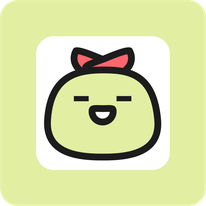
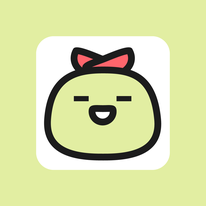
fixed margins on mobile

diff --git a/default.html b/default.html
@@ -50,7 +50,7 @@
     <div class="row mt-5" style="margin:auto">
       <!--Carousel logos-->
 
-      <div id="carousel-a" class="carousel slide carousel-sync col-xs-10 col-md-6 ms-3" data-ride="carousel">
+      <div id="carousel-a" class="carousel slide carousel-sync col-xs-10 col-md-6" data-ride="carousel">
         <!-- Images for carousel -->
         <div class="carousel-inner carousel-border">
           <div class="carousel-item active">
@@ -111,18 +111,18 @@
       </div>
       <!--Carousel Descs-->
 
-      <div id="carousel-b" class="carousel slide carousel-sync col-xs-10 col-md-5 carouselbg" data-ride="carousel">
+      <div id="carousel-b" class="carousel slide carousel-sync col-xs-10 col-md-5" data-ride="carousel">
         <!-- Images for carousel -->
-        <div class="carousel-inner slide carousel-sync">
+        <div class="carousel-inner slide carousel-sync carouselbg mx-auto">
           <div class="carousel-item active px-2 me-5">
-            <div class="mt-5 ">
+            <div class="mt-3 ">
               <h1>Beautybox UF</h1>
               <h3>Skönhet</h3>
               <p class="fs-5">Beauty Box UF säljer en beauty box med innehåll av sminkredskap & ett test av mineralsmink.</p>
             </div>
           </div>
           <div class="carousel-item">
-            <div class="mt-5">
+            <div class="mt-3">
               <h1>Biobags UF</h1>
               <h3>Tygväskor</h3>
               <p class="fs-5">Vi heter Romeo, Holger och Ludvig. Vi säljer kvalitativa, miljövänliga tygväskor som är designade med ett speciellt 
@@ -130,91 +130,91 @@
             </div>
           </div>
           <div class="carousel-item">
-            <div class="mt-5">
+            <div class="mt-3">
               <h1>Doftljus Konstverk UF</h1>
               <h3>Doftljus</h3>
               <p class="fs-5">Vi erbjuder ett brett utbud av naturliga doftljus i olika former och dofter. Våra produkter hjälper kunder att skapa en trevlig och avkopplande atmosfär i sina hem, samtidigt som de kan fungera som gåvor eller dekorativa element.</p>      
             </div>
           </div>
           <div class="carousel-item">
-            <div class="mt-5">
+            <div class="mt-3">
               <h1>Heads Up UF</h1>
               <h3>Snickeri</h3>
               <p class="fs-5">Vi är ett ny tänkande UF företag som fokuserar på hantverk och återvändning av spill material för att producera snygga men också funktionella dator stativ i trä.</p>
             </div>
           </div>
           <div class="carousel-item">
-            <div class="mt-5">
+            <div class="mt-3">
               <h1>Lucida UF</h1>
               <h3>Doftljus</h3>
               <p class="fs-5">Lucida UF säljer hemmagjorda doftljus gjorda på åtevunnet stearin</p>
             </div>
           </div>
           <div class="carousel-item">
-            <div class="mt-5">
+            <div class="mt-3">
               <h1>Lyckotassar UF</h1>
               <h3>Smycken</h3>
               <p class="fs-5">Lyckotassar UF skapar smycken i form av en tass, produkten är helt egen och extra unit då detta inte finns ute på marknaden idag. Lyckotassar UF erbjuder tassar med två olika teman att välja på, måndens färg eller egen design.</p>
             </div>
           </div>
           <div class="carousel-item">
-            <div class="mt-5">
+            <div class="mt-3">
               <h1>Mothlight Apparel UF</h1>
               <h3>Kläder</h3>
               <p class="fs-5">Mothlight Apparel UF är ett ungdomsföretag som drivs med målet att göra folket mer uttrycksfulla - speciellt när det gäller deras stil. Vi vill alltså se folk hitta sin egen stil med minimal budget och på ett hållbart sätt. Många av våra produkter är handgjorda av återvunnet Material från dels andrahand tyger och smycket.</p>
             </div>
           </div>
           <div class="carousel-item">
-            <div class="mt-5">
+            <div class="mt-3">
               <h1>Satine UF</h1>
               <h3>Smycken</h3>
               <p class="fs-5">Vi på Satine UF vill bidra med något till samhället och psykiskt ohälsa samtidigt som vi vill göra personliga smycken. Därför har vi valt att stödja organisationen maskrosbarnen med att donera en del av vår vinst. Detta samtidigt som kunderna kan få personliga armband där kunden kan få sin eller någon annans initial.</p>
             </div>
           </div>
           <div class="carousel-item">
-            <div class="mt-5">
+            <div class="mt-3">
               <h1>WAKEH Virkning UF</h1>
               <h3>Gosedjur</h3>
               <p class="fs-5">WAKEH Virkning UF gör virkade gosedjur av alla slag i olika färg och storlek. Allt dethär går att beställa och ändra på ifall man skulle vilja det.</p>
             </div>
           </div>
           <div class="carousel-item">
-            <div class="mt-5">
+            <div class="mt-3">
               <h1>Pure Accessories UF</h1>
               <h3>Smycken</h3>
               <p class="fs-5">Pure Accessories UF designar smycken med hög kvalitet till överkomliga priser.</p>
             </div>
           </div>
           <div class="carousel-item">
-            <div class="mt-5">
+            <div class="mt-3">
               <h1>Aggu UF</h1>
               <h3>Kläder</h3>
               <p class="fs-5">Aggu fokuserar på att skapa kläder med tryck inspirerade av, kultur och natur genom att samarbeta med lokala konstnärer och designers, vilket låter kunderna välja från ett brett utbud av exklusiva tryck.</p>
             </div>
           </div>
           <div class="carousel-item">
-            <div class="mt-5">
+            <div class="mt-3">
               <h1>Amarone UF</h1>
               <h3>Doftljus</h3>
               <p class="fs-5">Vår affärside är att omvandla och återanvända gamla glasflaskor för att tillverka stilrena och unika doftljus. Doftljusen är handgjorda och erbjuder ett miljövänligt alternativ som passar hållbarhetstänkande och miljömedvetna kunder. Våran affärside sträcker sig långt från att tillverka doftljus, vi vill inspirera och uppmuntra folk till en mer hållbar livsstil</p>
             </div>
           </div>
           <div class="carousel-item">
-            <div class="mt-5">
+            <div class="mt-3">
               <h1>Pomelo 3D UF</h1>
               <h3>3D modeller</h3>
               <p class="fs-5">Vi erbjuder skräddarsydda 3D-modelleringar och visualiseringar som uppfyller kundens unika behov och önskemål. Genom att använda digitala verktyg skapar vi allt från interiördesignprojekt till små figuriner som 3D-utskrivs, och vi involverar kunden aktivt i hela processen för att säkerställa att resultatet lever upp till deras individuella vision.</p>
             </div>
           </div>
           <div class="carousel-item">
-            <div class="mt-5">
+            <div class="mt-3">
               <h1>UnpredicaBoard UF</h1>
               <h3>Brädspel</h3>
               <p class="fs-5">Vi planerar att göra ett överlevnads brädspel som har skräck element. Brädspelet är riktat mot ungdomar och vuxna.</p>
             </div>
           </div>
           <div class="carousel-item">
-            <div class="mt-5">
+            <div class="mt-3">
               <h1>Crunchybites UF</h1>
               <h3>Mat</h3>
               <p class="fs-5">Crunchy Bites är ett UF-företag på 4 personer från Påhlmans gymnasium. Vi tillverkar och säljer en hållbar granola. Vi har ett hållbarhetstänk där största möjliga andelen av råvarorna kommer vara svenska och till stor del anpassade efter säsong.</p>

diff --git a/omoss.html b/omoss.html
@@ -37,8 +37,8 @@
         </div>
       </div>
     </nav>
-    <h1 class="omosshead bold" >Vi är Företagskupan UF</h1>
-    <div class="field"><
+    <h1 class="omosshead bold">Vi är Företagskupan UF</h1>
+    <div class="field">
       <img id="namnbild" src="ImgFolder/namnbild.png">
     </div>
     <script src="https://cdn.jsdelivr.net/npm/@popperjs/core@2.11.8/dist/umd/popper.min.js" integrity="sha384-I7E8VVD/ismYTF4hNIPjVp/Zjvgyol6VFvRkX/vR+Vc4jQkC+hVqc2pM8ODewa9r" crossorigin="anonymous"></script>

diff --git a/Main.css b/Main.css
@@ -42,13 +42,13 @@
   margin-right: 7px;
 }
 .carousel-border{
-  border-radius: 5%;
+  border-radius: 20px;
   border: #3d3427 5px solid;
 }
 .carouselbg{
   background-color: #ffc30e;
   border: #3d3427 5px solid;
-  border-radius: 5%;
+  border-radius: 20px;
 }
 .carousel-item img{
   object-fit: cover;
